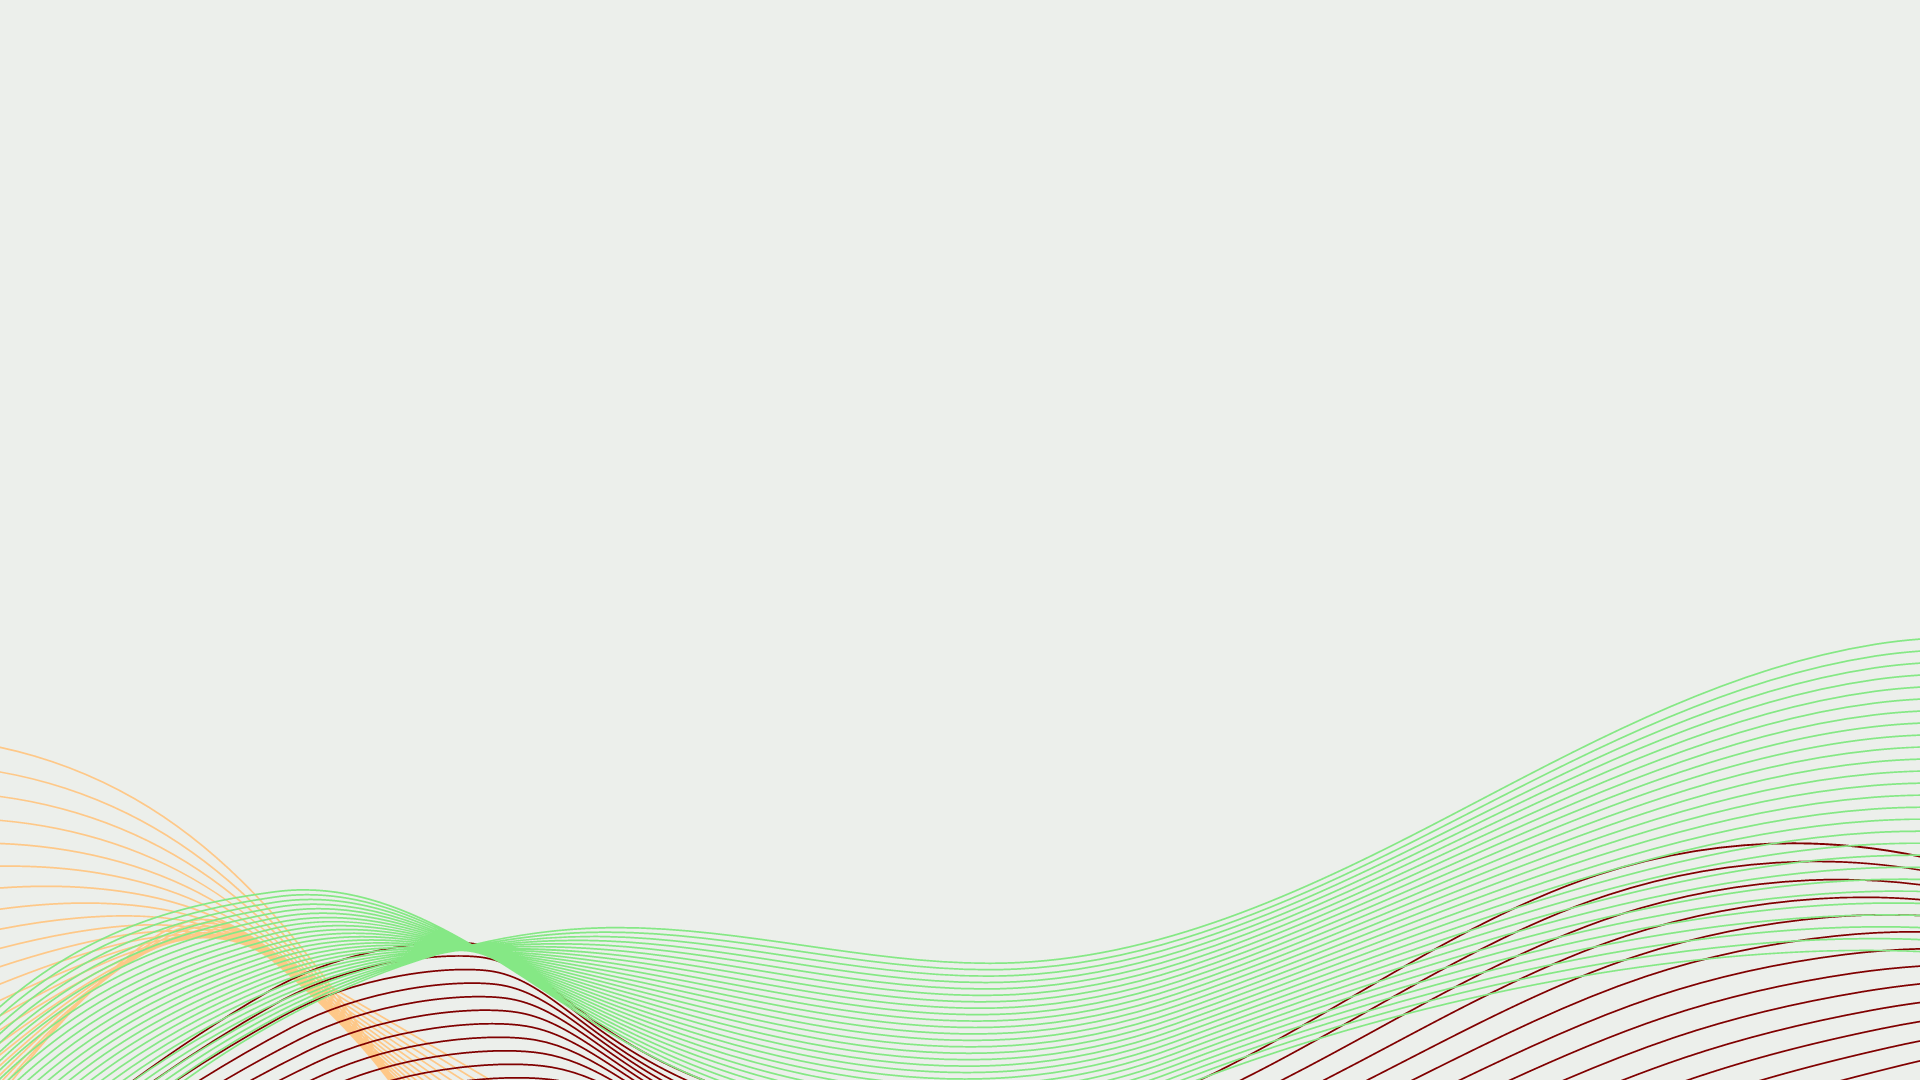
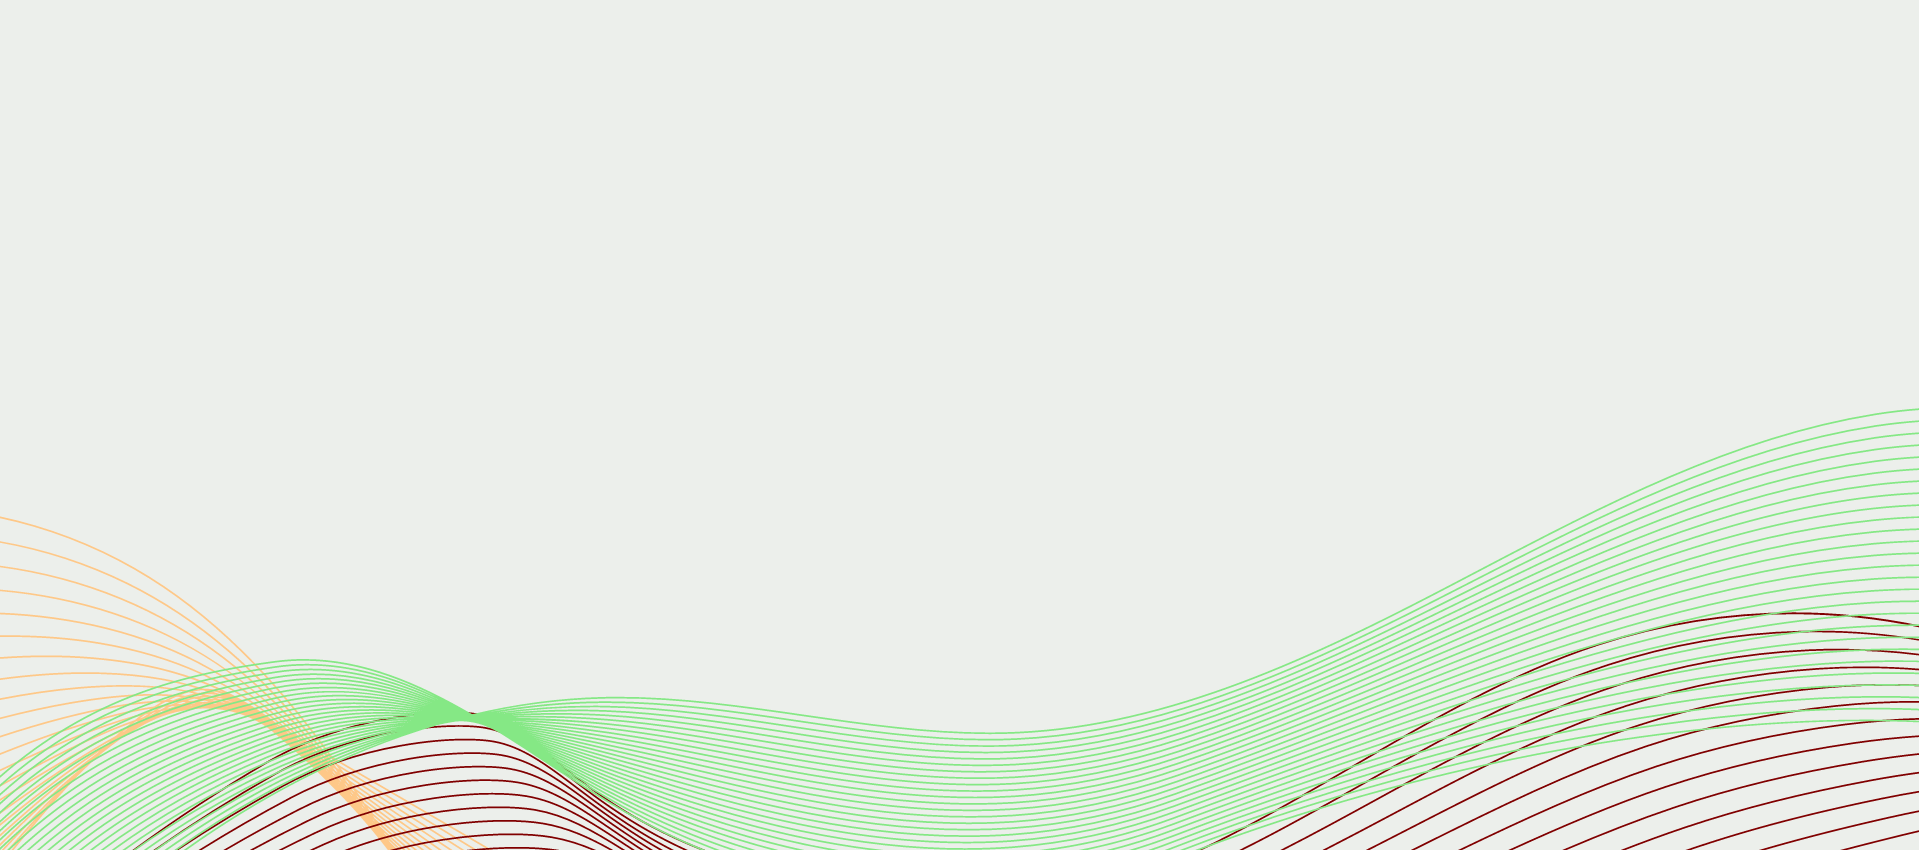
Added background on some pages

Changed region(s): [[0.0, 0.4894, 1.0, 1.0]]

diff --git a/Faculty.html b/Faculty.html
@@ -103,75 +103,77 @@
             <a href="Documented-accreditors.html"><li><button><span><i class="fa-solid fa-folder-open"></i> Requested Documentation by Accreditors</span></button></li></a>
         </ul>
     </nav>
-    
-    <div class="faculty-container-main">
-        <h1 class="faculty-title">Core Faculty</h1>
-        <div class="faculty-container-top">
-            <div class="faculty-wrapper-top">
-                <img src="./images/facultydummy1.jpeg">
-                <div class="faculty-details">
-                    <h1 class="faculty-name-top">Juan Dela Cruz</h1>
-                    <p class="faculty-position-top">Position</p>
+    <div class="background-two-template">
+        <div class="faculty-container-main">
+            <h1 class="faculty-title">Core Faculty</h1>
+            <div class="faculty-container-top">
+                <div class="faculty-wrapper-top">
+                    <img src="./images/facultydummy1.jpeg">
+                    <div class="faculty-details">
+                        <h1 class="faculty-name-top">Juan Dela Cruz</h1>
+                        <p class="faculty-position-top">Position</p>
+                    </div>
                 </div>
-            </div>
-            <div class="faculty-wrapper-top">
-                <img src="./images/facultydummy1.jpeg">
-                <div class="faculty-details">
-                    <h1 class="faculty-name-top">Juan Dela Cruz </h1>
-                    <p class="faculty-position-top">Position</p>
+                <div class="faculty-wrapper-top">
+                    <img src="./images/facultydummy1.jpeg">
+                    <div class="faculty-details">
+                        <h1 class="faculty-name-top">Juan Dela Cruz </h1>
+                        <p class="faculty-position-top">Position</p>
+                    </div>
+                    
+                </div>
+            </div>  
+            
+            <div class="faculty-container-bottom">
+                <div class="faculty-wrapper-bottom">
+                    <img src="./images/facultydummy1.jpeg">
+                    <div class="faculty-details">
+                        <h1 class="faculty-name-bottom">Juan Dela Cruz</h1>
+                        <p class="faculty-position-bottom">Position</p>
+                    </div>
+                </div>
+                <div class="faculty-wrapper-bottom">
+                    <img src="./images/facultydummy1.jpeg">
+                    <div class="faculty-details">
+                        <h1 class="faculty-name-bottom">Juan Dela Cruz</h1>
+                        <p class="faculty-position-bottom">Position</p>
+                    </div>
+                </div>
+                <div class="faculty-wrapper-bottom">
+                    <img src="./images/facultydummy1.jpeg">
+                    <div class="faculty-details">
+                        <h1 class="faculty-name-bottom">Juan Dela Cruz</h1>
+                        <p class="faculty-position-bottom">Position</p>
+                    </div>
+                </div>
+                <div class="faculty-wrapper-bottom">
+                    <img src="./images/facultydummy1.jpeg">
+                    <div class="faculty-details">
+                        <h1 class="faculty-name-bottom">Juan Dela Cruz</h1>
+                        <p class="faculty-position-bottom">Position</p>
+                    </div>
+                </div>
+                <div class="faculty-wrapper-bottom">
+                    <img src="./images/facultydummy1.jpeg">
+                    <div class="faculty-details">
+                        <h1 class="faculty-name-bottom">Juan Dela Cruz</h1>
+                        <p class="faculty-position-bottom">Position</p>
+                    </div>
                 </div>
                 
-            </div>
-        </div>  
-        
-        <div class="faculty-container-bottom">
-            <div class="faculty-wrapper-bottom">
-                <img src="./images/facultydummy1.jpeg">
-                <div class="faculty-details">
-                    <h1 class="faculty-name-bottom">Juan Dela Cruz</h1>
-                    <p class="faculty-position-bottom">Position</p>
+                <div class="faculty-wrapper-bottom">
+                    <img src="./images/facultydummy1.jpeg">
+                    <div class="faculty-details">
+                        <h1 class="faculty-name-bottom">Juan Dela Cruz</h1>
+                        <p class="faculty-position-bottom">Position</p>
+                    </div>
                 </div>
+                
+                
             </div>
-            <div class="faculty-wrapper-bottom">
-                <img src="./images/facultydummy1.jpeg">
-                <div class="faculty-details">
-                    <h1 class="faculty-name-bottom">Juan Dela Cruz</h1>
-                    <p class="faculty-position-bottom">Position</p>
-                </div>
-            </div>
-            <div class="faculty-wrapper-bottom">
-                <img src="./images/facultydummy1.jpeg">
-                <div class="faculty-details">
-                    <h1 class="faculty-name-bottom">Juan Dela Cruz</h1>
-                    <p class="faculty-position-bottom">Position</p>
-                </div>
-            </div>
-            <div class="faculty-wrapper-bottom">
-                <img src="./images/facultydummy1.jpeg">
-                <div class="faculty-details">
-                    <h1 class="faculty-name-bottom">Juan Dela Cruz</h1>
-                    <p class="faculty-position-bottom">Position</p>
-                </div>
-            </div>
-            <div class="faculty-wrapper-bottom">
-                <img src="./images/facultydummy1.jpeg">
-                <div class="faculty-details">
-                    <h1 class="faculty-name-bottom">Juan Dela Cruz</h1>
-                    <p class="faculty-position-bottom">Position</p>
-                </div>
-            </div>
-            
-            <div class="faculty-wrapper-bottom">
-                <img src="./images/facultydummy1.jpeg">
-                <div class="faculty-details">
-                    <h1 class="faculty-name-bottom">Juan Dela Cruz</h1>
-                    <p class="faculty-position-bottom">Position</p>
-                </div>
-            </div>
-            
-            
         </div>
     </div>
+    
   
     <script src="index.js"></script>
 </body>

diff --git a/Compliance Report/Area1.html b/Compliance Report/Area1.html
@@ -103,14 +103,14 @@
             <a href="../Documented-accreditors.html"><li><button><span><i class="fa-solid fa-folder-open"></i> Requested Documentation by Accreditors</span></button></li></a>
         </ul>
     </nav>
-    
-    <div class="compliance-report-container">
-        <div class="compliance-report-title">Area I</div>
-        <div class="compliance-report-subtitle">Vision, Mission, Goals and Objectives</div>
+    <div class="background-two-template">
+        <div class="compliance-report-container">
+            <div class="compliance-report-title">Area I</div>
+            <div class="compliance-report-subtitle">Vision, Mission, Goals and Objectives</div>
+        </div>
+        <iframe allowfullscreen="allowfullscreen" scrolling="no" class="fp-iframe" src="https://heyzine.com/flip-book/7050ffefd6.html" style="border: 1px solid lightgray; width: 100%; height: 600px;"></iframe>
     </div>
-
     
-    <iframe allowfullscreen="allowfullscreen" scrolling="no" class="fp-iframe" src="https://heyzine.com/flip-book/7050ffefd6.html" style="border: 1px solid lightgray; width: 100%; height: 600px;"></iframe>
     <script src="../index.js"></script>
 </body>
 </html>

diff --git a/Compliance Report/Area8.html b/Compliance Report/Area8.html
@@ -103,12 +103,14 @@
             <a href="../Documented-accreditors.html"><li><button><span><i class="fa-solid fa-folder-open"></i> Requested Documentation by Accreditors</span></button></li></a>
         </ul>
     </nav>
-    
-    <div class="compliance-report-container">
-        <div class="compliance-report-title">Area VIII</div>
-        <div class="compliance-report-subtitle">Physical Plant and Facilities</div>
+    <div class="background-two-template">
+        <div class="compliance-report-container">
+            <div class="compliance-report-title">Area VIII</div>
+            <div class="compliance-report-subtitle">Physical Plant and Facilities</div>
+        </div>
+        <iframe allowfullscreen="allowfullscreen" scrolling="no" class="fp-iframe" src="https://heyzine.com/flip-book/356b9513b1.html" style="border: 0px; width: 100%; height: 600px;"></iframe>
     </div>
-    <iframe allowfullscreen="allowfullscreen" scrolling="no" class="fp-iframe" src="https://heyzine.com/flip-book/356b9513b1.html" style="border: 0px; width: 100%; height: 600px;"></iframe>
+    
     <script src="../index.js"></script>
 </body>
 </html>

diff --git a/Compliance Report/Area3.html b/Compliance Report/Area3.html
@@ -103,14 +103,14 @@
             <a href="../Documented-accreditors.html"><li><button><span><i class="fa-solid fa-folder-open"></i> Requested Documentation by Accreditors</span></button></li></a>
         </ul>
     </nav>
-    
-    <div class="compliance-report-container">
-        <div class="compliance-report-title">Area III</div>
-        <div class="compliance-report-subtitle">Curriculum and Instruction</div>
+    <div class="background-two-template">
+        <div class="compliance-report-container">
+            <div class="compliance-report-title">Area III</div>
+            <div class="compliance-report-subtitle">Curriculum and Instruction</div>
+        </div>
+        <iframe allowfullscreen="allowfullscreen" scrolling="no" class="fp-iframe" src="https://heyzine.com/flip-book/faafe712ae.html" style="border: 0px; width: 100%; height: 600px;"></iframe>
     </div>
-
     
-    <iframe allowfullscreen="allowfullscreen" scrolling="no" class="fp-iframe" src="https://heyzine.com/flip-book/faafe712ae.html" style="border: 0px; width: 100%; height: 600px;"></iframe>
     <script src="../index.js"></script>
 </body>
 </html>

diff --git a/index.css b/index.css
@@ -493,12 +493,11 @@ header .launch-main-quote {
 
 /* Faculty Tab */
 .faculty-container-main{
-
     display: flex;
     justify-content: center;
     align-items: center;
     flex-direction: column;
-    margin: 2em 0;
+    padding: 2em 0;
     font-family: 'Poppins', sans-serif;
     width: 100%;
 }
@@ -510,7 +509,7 @@ header .launch-main-quote {
     display: grid;
     grid-template-columns: 30em 30em;
     gap: 2em;
-    margin: 1em 0;
+    padding: 1em 0;
     
 }
 .faculty-wrapper-top{
@@ -582,6 +581,17 @@ header .launch-main-quote {
 
 .background-two-template{
     background: url(images/Pscyh-Background-2.png);
+    height: 80dvh;
+    width: 100%;
+    -webkit-background-size: cover;
+    -moz-background-size: cover;
+    -o-background-size: cover;
+    background-size: cover;
+    background-repeat: no-repeat;
+}
+
+.background-pscyh-two-auto{
+    background: url(images/Pscyh-Background-2.png);
     height: auto;
     width: 100%;
     -webkit-background-size: cover;
@@ -590,3 +600,4 @@ header .launch-main-quote {
     background-size: cover;
     background-repeat: no-repeat;
 }
+    

diff --git a/Compliance Report/Area9.html b/Compliance Report/Area9.html
@@ -103,12 +103,14 @@
             <a href="../Documented-accreditors.html"><li><button><span><i class="fa-solid fa-folder-open"></i> Requested Documentation by Accreditors</span></button></li></a>
         </ul>
     </nav>
-    
-    <div class="compliance-report-container">
-        <div class="compliance-report-title">Area IX</div>
-        <div class="compliance-report-subtitle">Laboratories</div>
+    <div class="background-two-template">
+        <div class="compliance-report-container">
+            <div class="compliance-report-title">Area IX</div>
+            <div class="compliance-report-subtitle">Laboratories</div>
+        </div>
+        <iframe allowfullscreen="allowfullscreen" scrolling="no" class="fp-iframe" src="https://heyzine.com/flip-book/29a8794d1f.html" style="border: 0px; width: 100%; height: 600px;"></iframe>
     </div>
-    <iframe allowfullscreen="allowfullscreen" scrolling="no" class="fp-iframe" src="https://heyzine.com/flip-book/29a8794d1f.html" style="border: 0px; width: 100%; height: 600px;"></iframe>
+    
     <script src="../index.js"></script>
 </body>
 </html>

diff --git a/Compliance Report/Area10.html b/Compliance Report/Area10.html
@@ -103,11 +103,14 @@
             <a href="../Documented-accreditors.html"><li><button><span><i class="fa-solid fa-folder-open"></i> Requested Documentation by Accreditors</span></button></li></a>
         </ul>
     </nav>
-    <div class="compliance-report-container">
-        <div class="compliance-report-title">Area X</div>
-        <div class="compliance-report-subtitle">Administration</div>
+    <div class="background-two-template">
+        <div class="compliance-report-container">
+            <div class="compliance-report-title">Area X</div>
+            <div class="compliance-report-subtitle">Administration</div>
+        </div>
+        <iframe allowfullscreen="allowfullscreen" scrolling="no" class="fp-iframe" src="https://heyzine.com/flip-book/6004d20cf8.html" style="border: 0px; width: 100%; height: 600px;"></iframe>
     </div>
-    <iframe allowfullscreen="allowfullscreen" scrolling="no" class="fp-iframe" src="https://heyzine.com/flip-book/6004d20cf8.html" style="border: 0px; width: 100%; height: 600px;"></iframe>
+    
     <script src="../index.js"></script>
 </body>
 </html>

diff --git a/Compliance Report/Area2.html b/Compliance Report/Area2.html
@@ -103,14 +103,14 @@
             <a href="../Documented-accreditors.html"><li><button><span><i class="fa-solid fa-folder-open"></i> Requested Documentation by Accreditors</span></button></li></a>
         </ul>
     </nav>
-    
-    <div class="compliance-report-container">
-        <div class="compliance-report-title">Area II</div>
-        <div class="compliance-report-subtitle">Faculty</div>
+    <div class="background-two-template">
+        <div class="compliance-report-container">
+            <div class="compliance-report-title">Area II</div>
+            <div class="compliance-report-subtitle">Faculty</div>
+        </div>
+        <iframe allowfullscreen="allowfullscreen" scrolling="no" class="fp-iframe" src="https://heyzine.com/flip-book/7b948f1e90.html" style="border: 0px; width: 100%; height: 600px;"></iframe>
     </div>
-
     
-    <iframe allowfullscreen="allowfullscreen" scrolling="no" class="fp-iframe" src="https://heyzine.com/flip-book/7b948f1e90.html" style="border: 0px; width: 100%; height: 600px;"></iframe>
     <script src="../index.js"></script>
 </body>
 </html>

diff --git a/Compliance Report/Area6.html b/Compliance Report/Area6.html
@@ -104,11 +104,14 @@
         </ul>
     </nav>
     
-    <div class="compliance-report-container">
-        <div class="compliance-report-title">Area VI</div>
-        <div class="compliance-report-subtitle">Extension and Community Development</div>
+    <div class="background-two-template">
+        <div class="compliance-report-container">
+            <div class="compliance-report-title">Area VI</div>
+            <div class="compliance-report-subtitle">Extension and Community Development</div>
+        </div>
+        <iframe allowfullscreen="allowfullscreen" scrolling="no" class="fp-iframe" src="https://heyzine.com/flip-book/848bc6a649.html" style="border: 0px; width: 100%; height: 600px;"></iframe>
     </div>
-    <iframe allowfullscreen="allowfullscreen" scrolling="no" class="fp-iframe" src="https://heyzine.com/flip-book/848bc6a649.html" style="border: 0px; width: 100%; height: 600px;"></iframe>
+    
     <script src="../index.js"></script>
 </body>
 </html>

diff --git a/Compliance Report/Area4.html b/Compliance Report/Area4.html
@@ -104,13 +104,14 @@
         </ul>
     </nav>
     
-    <div class="compliance-report-container">
-        <div class="compliance-report-title">Area IV</div>
-        <div class="compliance-report-subtitle">Students</div>
+    <div class="background-two-template">
+        <div class="compliance-report-container">
+            <div class="compliance-report-title">Area IV</div>
+            <div class="compliance-report-subtitle">Students</div>
+        </div>
+        <iframe allowfullscreen="allowfullscreen" scrolling="no" class="fp-iframe" src="https://heyzine.com/flip-book/423ba069d3.html" style="border: 0px; width: 100%; height: 600px;"></iframe>
     </div>
-
-    
-    <iframe allowfullscreen="allowfullscreen" scrolling="no" class="fp-iframe" src="https://heyzine.com/flip-book/423ba069d3.html" style="border: 0px; width: 100%; height: 600px;"></iframe>
+   
     <script src="../index.js"></script>
 </body>
 </html>

diff --git a/Compliance Report/Area7.html b/Compliance Report/Area7.html
@@ -104,11 +104,14 @@
         </ul>
     </nav>
     
-    <div class="compliance-report-container">
-        <div class="compliance-report-title">Area VII</div>
-        <div class="compliance-report-subtitle">Library</div>
+    <div class="background-two-template">
+        <div class="compliance-report-container">
+            <div class="compliance-report-title">Area VII</div>
+            <div class="compliance-report-subtitle">Library</div>
+        </div>
+        <iframe allowfullscreen="allowfullscreen" scrolling="no" class="fp-iframe" src="https://heyzine.com/flip-book/ba55771f27.html" style="border: 0px; width: 100%; height: 600px;"></iframe>
     </div>
-    <iframe allowfullscreen="allowfullscreen" scrolling="no" class="fp-iframe" src="https://heyzine.com/flip-book/ba55771f27.html" style="border: 0px; width: 100%; height: 600px;"></iframe>
+    
     <script src="../index.js"></script>
 </body>
 </html>

diff --git a/Compliance Report/Area5.html b/Compliance Report/Area5.html
@@ -104,11 +104,14 @@
         </ul>
     </nav>
     
-    <div class="compliance-report-container">
-        <div class="compliance-report-title">Area V</div>
-        <div class="compliance-report-subtitle">Research</div>
+    <div class="background-two-template">
+        <div class="compliance-report-container">
+            <div class="compliance-report-title">Area V</div>
+            <div class="compliance-report-subtitle">Research</div>
+        </div>
+        <iframe allowfullscreen="allowfullscreen" scrolling="no" class="fp-iframe" src="https://heyzine.com/flip-book/c9b6be508a.html" style="border: 0px; width: 100%; height: 600px;"></iframe>
     </div>
-    <iframe allowfullscreen="allowfullscreen" scrolling="no" class="fp-iframe" src="https://heyzine.com/flip-book/c9b6be508a.html" style="border: 0px; width: 100%; height: 600px;"></iframe>
+    
     <script src="../index.js"></script>
 </body>
 </html>
